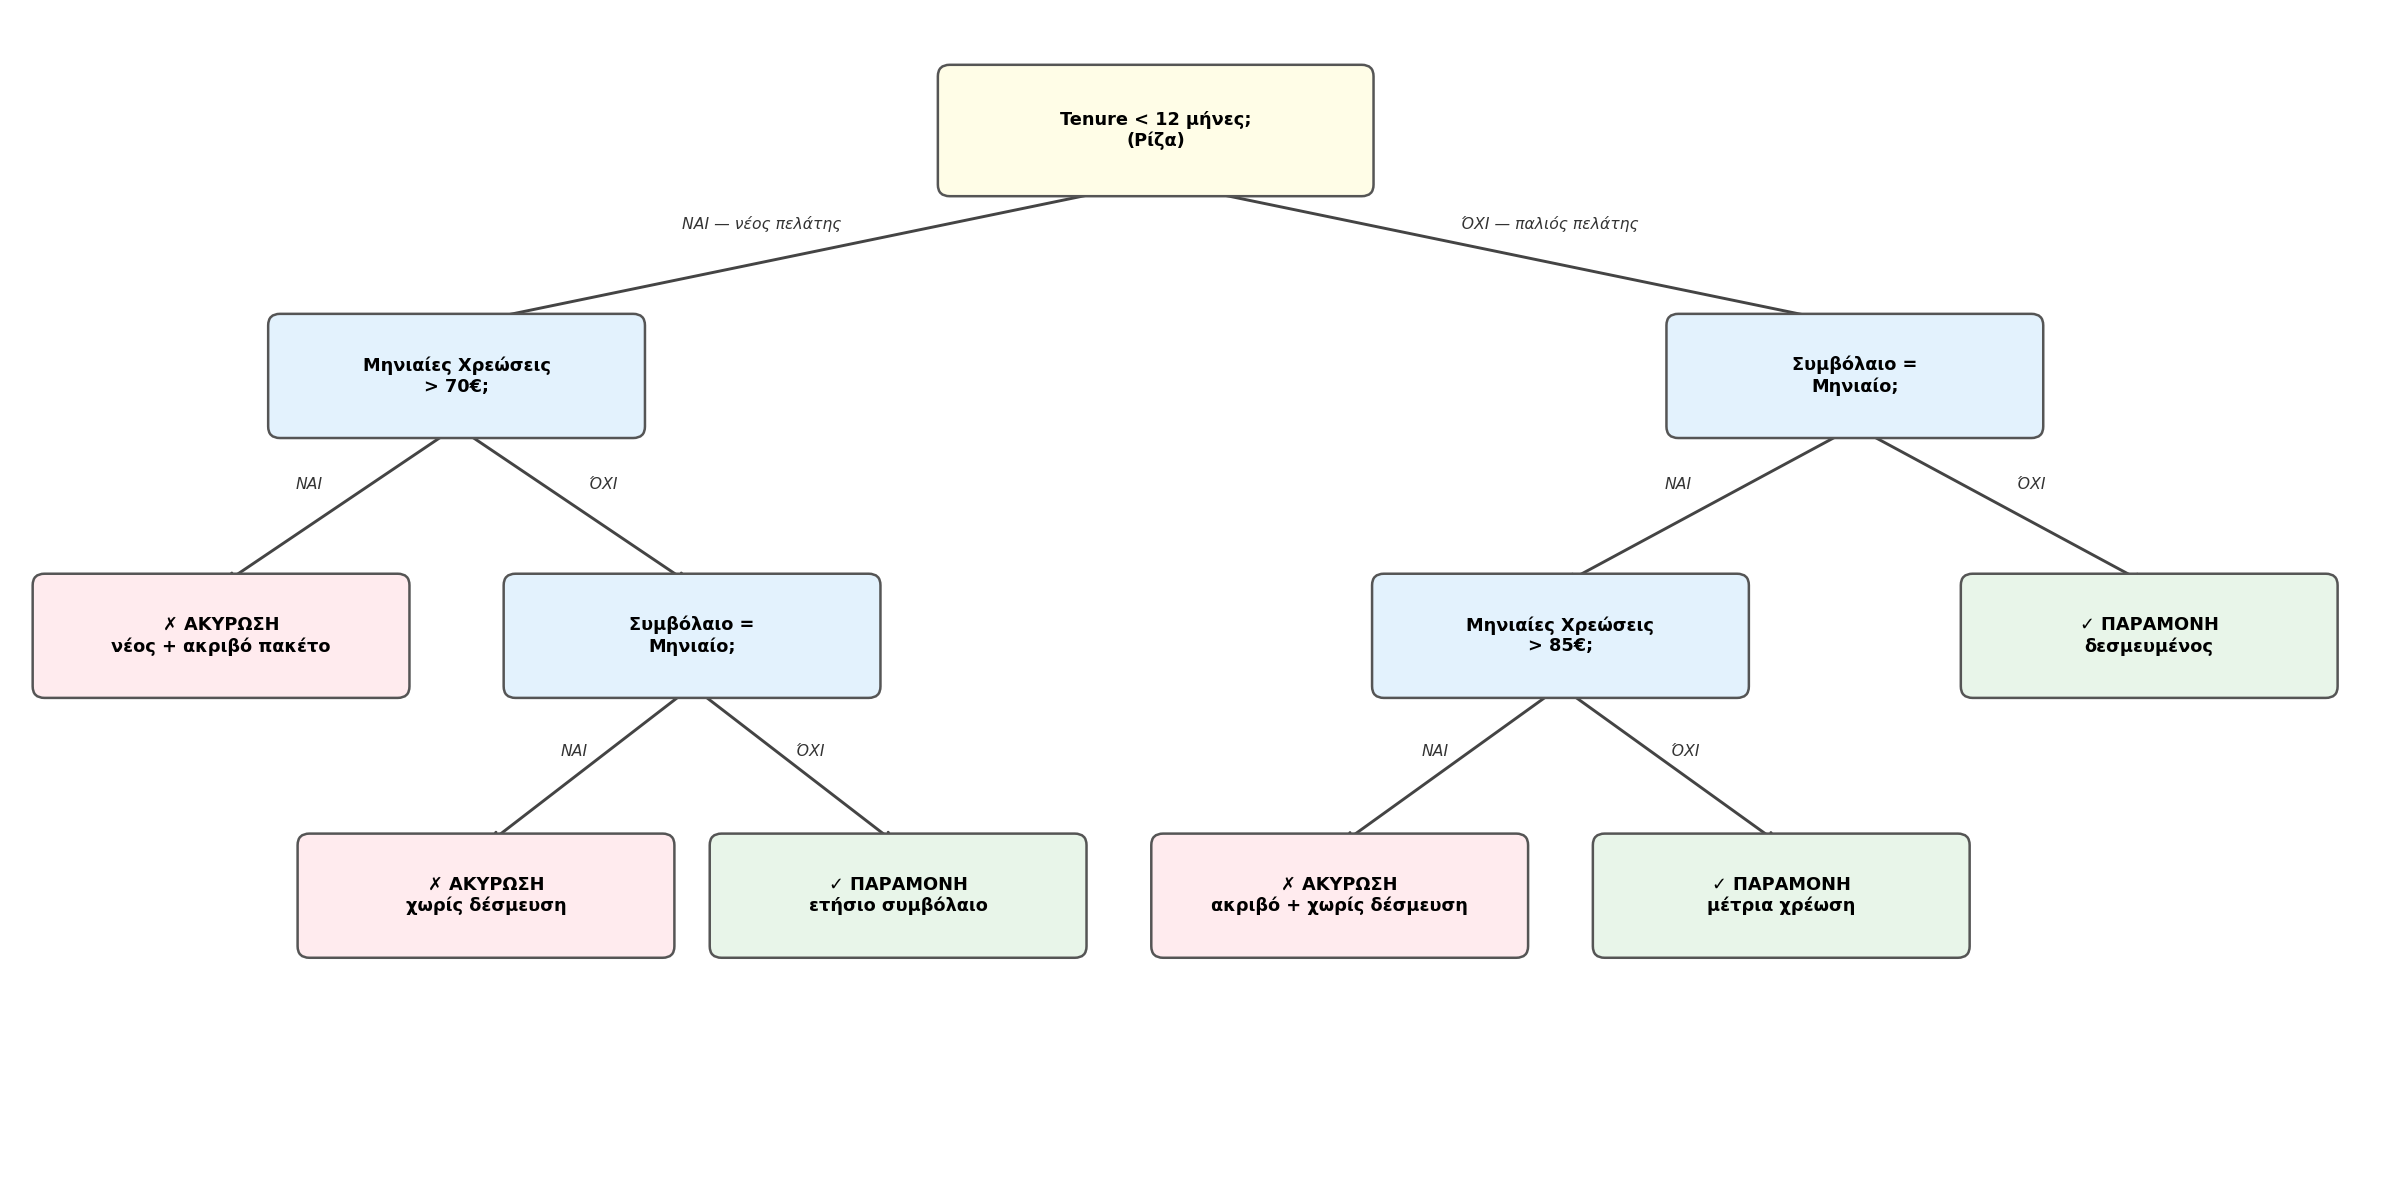
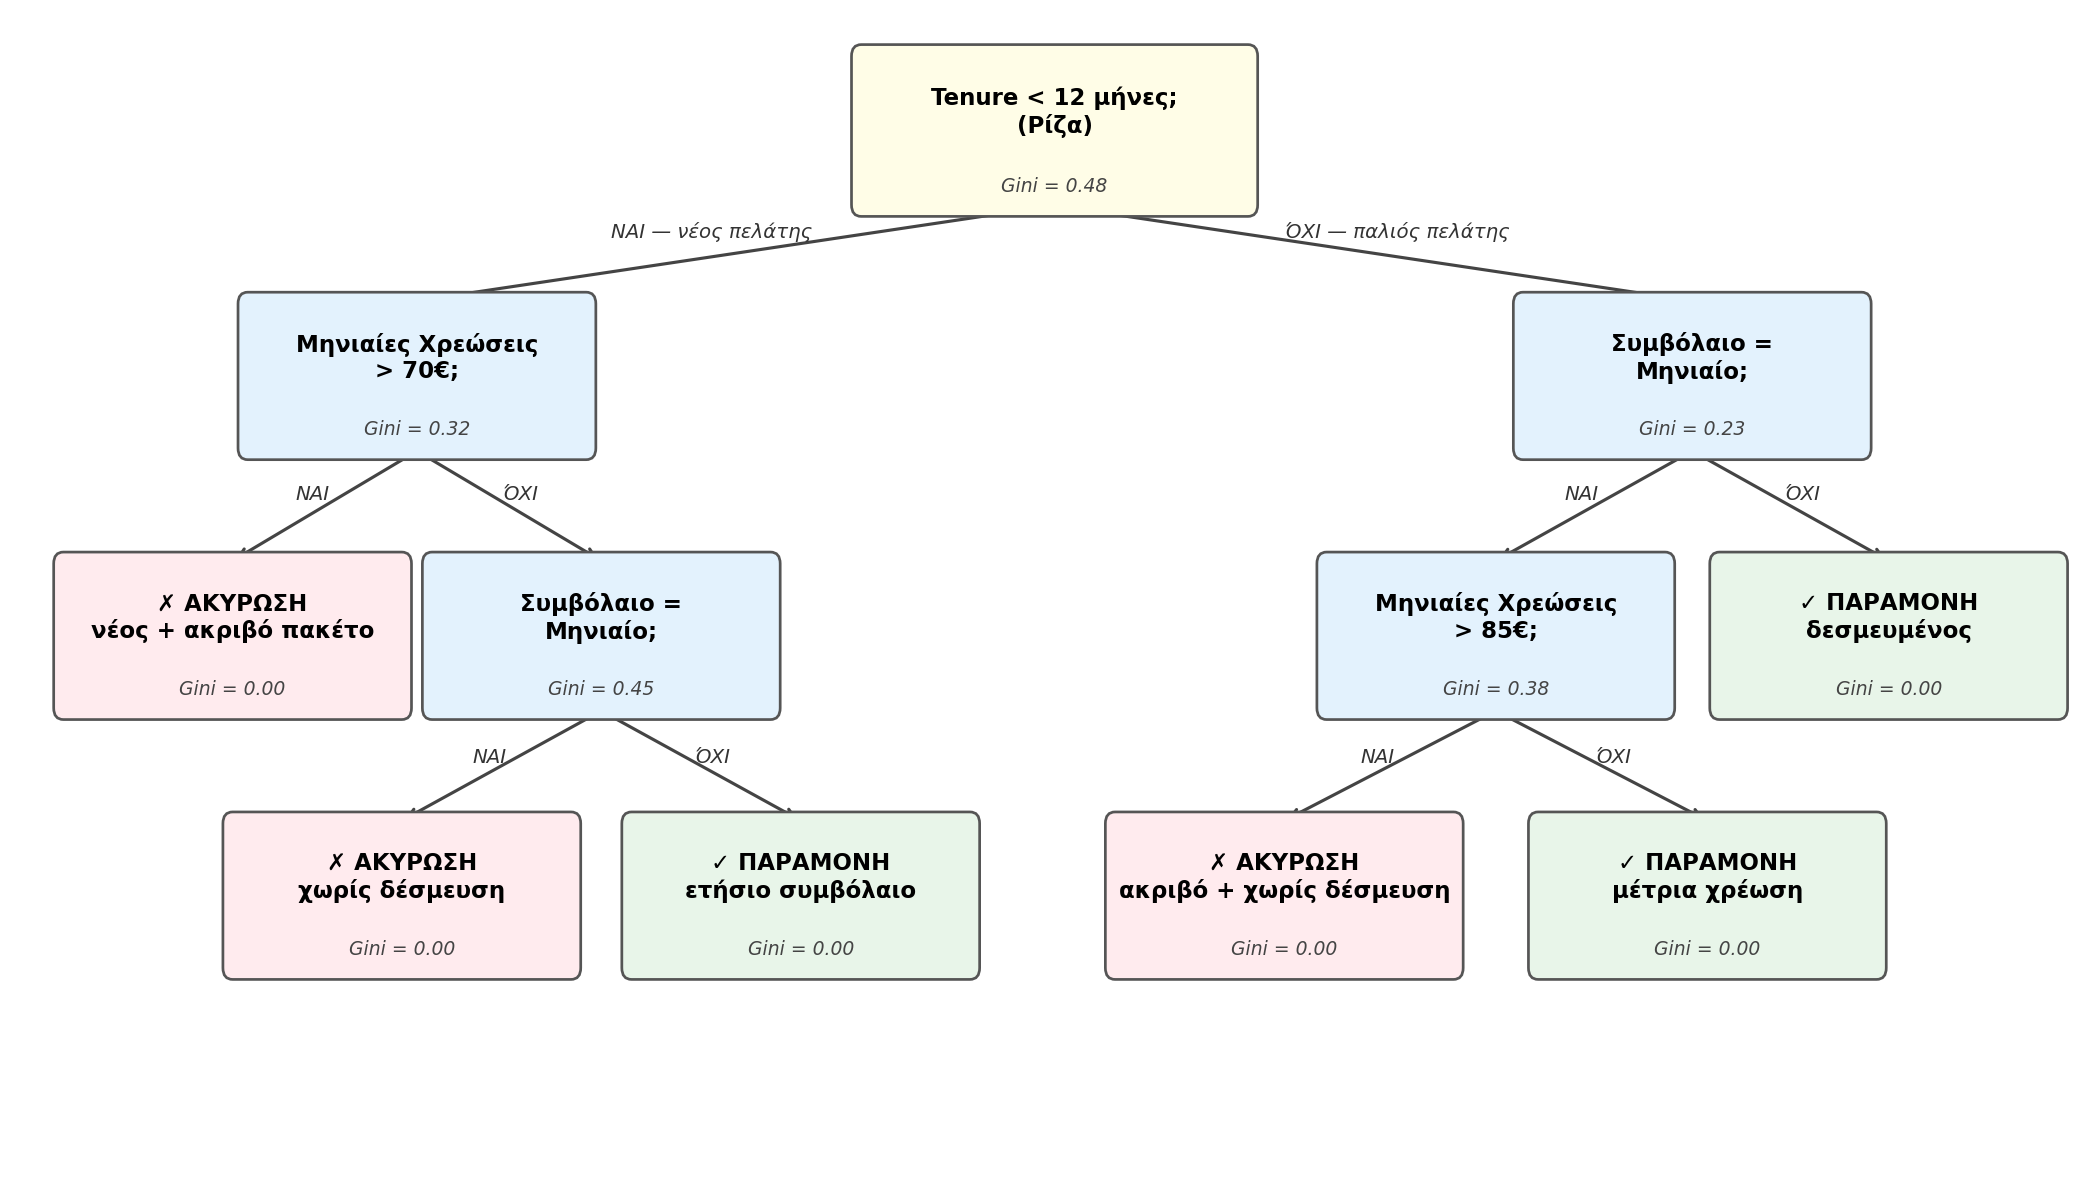
feat(lec6): display gini impurity in decision tree nodes
Update `gen_decision_tree.py` to include Gini impurity values within each node. Adjust node dimensions, positions, and text sizes for improved readability. Regenerate `decision_tree.png`.

diff --git a/img/lec6/gen_decision_tree.py b/img/lec6/gen_decision_tree.py
@@ -1,32 +1,39 @@
-"""Generates decision_tree.png with fully Greek labels."""
+"""Generates decision_tree.png with fully Greek labels and Gini values per node."""
 import matplotlib
 matplotlib.rcParams['font.family'] = 'DejaVu Sans'
 import matplotlib.pyplot as plt
 from matplotlib.patches import FancyBboxPatch
 
-fig, ax = plt.subplots(figsize=(16, 8))
-ax.set_xlim(0, 16)
+fig, ax = plt.subplots(figsize=(14, 8))
+ax.set_xlim(0, 17)   # wider space → left nodes don't clip
 ax.set_ylim(0, 8)
 ax.axis('off')
 fig.patch.set_facecolor('white')
 
 # ── helpers ──────────────────────────────────────────────────────────────────
-def node(ax, x, y, text, color, width=2.4, height=0.70, fontsize=8.5):
-    box = FancyBboxPatch((x - width/2, y - height/2), width, height,
+def node(ax, x, y, text, color, gini=None, width=2.8, height=0.75, fontsize=11):
+    extra = 0.25 if gini is not None else 0
+    eff_h = height + extra
+    box = FancyBboxPatch((x - width/2, y - eff_h/2), width, eff_h,
                          boxstyle="round,pad=0.08",
-                         facecolor=color, edgecolor='#555555', linewidth=1.2,
+                         facecolor=color, edgecolor='#555555', linewidth=1.3,
                          zorder=3)
     ax.add_patch(box)
-    ax.text(x, y, text, ha='center', va='center', fontsize=fontsize,
+    text_y = y + (extra / 2 if gini is not None else 0)
+    ax.text(x, text_y, text, ha='center', va='center', fontsize=fontsize,
             fontweight='bold', zorder=4, multialignment='center')
+    if gini is not None:
+        ax.text(x, y - eff_h/2 + 0.13, f'Gini = {gini:.2f}',
+                ha='center', va='center', fontsize=9,
+                color='#444444', style='italic', zorder=4)
 
-def arrow(ax, x1, y1, x2, y2, h=0.35):
+def arrow(ax, x1, y1, x2, y2, h=0.52):
     ax.annotate('', xy=(x2, y2 + h), xytext=(x1, y1 - h),
-                arrowprops=dict(arrowstyle='->', color='#444444', lw=1.4),
+                arrowprops=dict(arrowstyle='->', color='#444444', lw=1.5),
                 zorder=2)
 
 def edge_label(ax, x, y, text):
-    ax.text(x, y, text, ha='center', va='center', fontsize=7.5,
+    ax.text(x, y, text, ha='center', va='center', fontsize=9.5,
             color='#333333', style='italic', zorder=5)
 
 # ── colours ──────────────────────────────────────────────────────────────────
@@ -35,42 +42,42 @@ INNER  = '#E3F2FD'
 CANCEL = '#FFEBEE'
 STAY   = '#E8F5E9'
 
-# ── layout (designed bottom-up so parents centre over children) ───────────────
-#
-# Level 3 (y=1.9): 4 leaves, evenly spaced
-L3a_x, L3b_x = 3.2, 6.0   # children of L2b
-L3c_x, L3d_x = 9.0, 12.0  # children of L2c
+# ── layout — bottom-up, left margin ≥ 0.4 units ──────────────────────────────
+# Level 3 (y=1.9)
+L3a_x, L3b_x = 3.2, 6.5    # children of L2b
+L3c_x, L3d_x = 10.5, 14.0  # children of L2c
 
-# Level 2 (y=3.7): 2 leaves + 2 inner nodes
-L2a_x = 1.4                          # left leaf
-L2b_x = (L3a_x + L3b_x) / 2         # 4.6  — centre over its children
-L2c_x = (L3c_x + L3d_x) / 2         # 10.5 — centre over its children
-L2d_x = 14.5                         # right leaf
+# Level 2 (y=3.7)
+L2a_x = 1.8
+L2b_x = (L3a_x + L3b_x) / 2   # 4.85
+L2c_x = (L3c_x + L3d_x) / 2   # 12.25
+L2d_x = 15.5
 
 # Level 1 (y=5.5)
-L1a_x = (L2a_x + L2b_x) / 2         # 3.0
-L1b_x = (L2c_x + L2d_x) / 2         # 12.5
+L1a_x = (L2a_x + L2b_x) / 2   # 3.325
+L1b_x = (L2c_x + L2d_x) / 2   # 13.875
 
 # Root (y=7.2)
-ROOT_x = (L1a_x + L1b_x) / 2        # 7.75
+ROOT_x = (L1a_x + L1b_x) / 2  # 8.6
 
 Y = dict(root=7.2, l1=5.5, l2=3.7, l3=1.9)
 
 # ── nodes ────────────────────────────────────────────────────────────────────
-node(ax, ROOT_x, Y['root'], 'Tenure < 12 μήνες;\n(Ρίζα)', ROOT, width=2.8, height=0.75)
+node(ax, ROOT_x, Y['root'], 'Tenure < 12 μήνες;\n(Ρίζα)', ROOT,
+     gini=0.48, width=3.2, height=0.78)
 
-node(ax, L1a_x, Y['l1'], 'Μηνιαίες Χρεώσεις\n> 70€;', INNER)
-node(ax, L1b_x, Y['l1'], 'Συμβόλαιο =\nΜηνιαίο;', INNER)
+node(ax, L1a_x, Y['l1'], 'Μηνιαίες Χρεώσεις\n> 70€;', INNER, gini=0.32)
+node(ax, L1b_x, Y['l1'], 'Συμβόλαιο =\nΜηνιαίο;',     INNER, gini=0.23)
 
-node(ax, L2a_x, Y['l2'], '✗ ΑΚΥΡΩΣΗ\nνέος + ακριβό πακέτο', CANCEL)
-node(ax, L2b_x, Y['l2'], 'Συμβόλαιο =\nΜηνιαίο;', INNER)
-node(ax, L2c_x, Y['l2'], 'Μηνιαίες Χρεώσεις\n> 85€;', INNER)
-node(ax, L2d_x, Y['l2'], '✓ ΠΑΡΑΜΟΝΗ\nδεσμευμένος', STAY)
+node(ax, L2a_x, Y['l2'], '✗ ΑΚΥΡΩΣΗ\nνέος + ακριβό πακέτο', CANCEL, gini=0.00)
+node(ax, L2b_x, Y['l2'], 'Συμβόλαιο =\nΜηνιαίο;',           INNER,  gini=0.45)
+node(ax, L2c_x, Y['l2'], 'Μηνιαίες Χρεώσεις\n> 85€;',       INNER,  gini=0.38)
+node(ax, L2d_x, Y['l2'], '✓ ΠΑΡΑΜΟΝΗ\nδεσμευμένος',          STAY,   gini=0.00)
 
-node(ax, L3a_x, Y['l3'], '✗ ΑΚΥΡΩΣΗ\nχωρίς δέσμευση', CANCEL)
-node(ax, L3b_x, Y['l3'], '✓ ΠΑΡΑΜΟΝΗ\nετήσιο συμβόλαιο', STAY)
-node(ax, L3c_x, Y['l3'], '✗ ΑΚΥΡΩΣΗ\nακριβό + χωρίς δέσμευση', CANCEL)
-node(ax, L3d_x, Y['l3'], '✓ ΠΑΡΑΜΟΝΗ\nμέτρια χρέωση', STAY)
+node(ax, L3a_x, Y['l3'], '✗ ΑΚΥΡΩΣΗ\nχωρίς δέσμευση',          CANCEL, gini=0.00)
+node(ax, L3b_x, Y['l3'], '✓ ΠΑΡΑΜΟΝΗ\nετήσιο συμβόλαιο',       STAY,   gini=0.00)
+node(ax, L3c_x, Y['l3'], '✗ ΑΚΥΡΩΣΗ\nακριβό + χωρίς δέσμευση', CANCEL, gini=0.00)
+node(ax, L3d_x, Y['l3'], '✓ ΠΑΡΑΜΟΝΗ\nμέτρια χρέωση',           STAY,   gini=0.00)
 
 # ── arrows ───────────────────────────────────────────────────────────────────
 arrow(ax, ROOT_x, Y['root'], L1a_x, Y['l1'])
@@ -85,16 +92,16 @@ arrow(ax, L2c_x,  Y['l2'],  L3c_x, Y['l3'])
 arrow(ax, L2c_x,  Y['l2'],  L3d_x, Y['l3'])
 
 # ── edge labels ──────────────────────────────────────────────────────────────
-edge_label(ax, (ROOT_x + L1a_x)/2 - 0.3, 6.55, 'ΝΑΙ — νέος πελάτης')
-edge_label(ax, (ROOT_x + L1b_x)/2 + 0.3, 6.55, 'ΌΧΙ — παλιός πελάτης')
-edge_label(ax, (L1a_x + L2a_x)/2 - 0.2, 4.75, 'ΝΑΙ')
-edge_label(ax, (L1a_x + L2b_x)/2 + 0.2, 4.75, 'ΌΧΙ')
-edge_label(ax, (L1b_x + L2c_x)/2 - 0.2, 4.75, 'ΝΑΙ')
-edge_label(ax, (L1b_x + L2d_x)/2 + 0.2, 4.75, 'ΌΧΙ')
-edge_label(ax, (L2b_x + L3a_x)/2 - 0.1, 2.9, 'ΝΑΙ')
-edge_label(ax, (L2b_x + L3b_x)/2 + 0.1, 2.9, 'ΌΧΙ')
-edge_label(ax, (L2c_x + L3c_x)/2 - 0.1, 2.9, 'ΝΑΙ')
-edge_label(ax, (L2c_x + L3d_x)/2 + 0.1, 2.9, 'ΌΧΙ')
+edge_label(ax, (ROOT_x + L1a_x)/2 - 0.2, 6.50, 'ΝΑΙ — νέος πελάτης')
+edge_label(ax, (ROOT_x + L1b_x)/2 + 0.2, 6.50, 'ΌΧΙ — παλιός πελάτης')
+edge_label(ax, (L1a_x + L2a_x)/2 - 0.1, 4.68, 'ΝΑΙ')
+edge_label(ax, (L1a_x + L2b_x)/2 + 0.1, 4.68, 'ΌΧΙ')
+edge_label(ax, (L1b_x + L2c_x)/2 - 0.1, 4.68, 'ΝΑΙ')
+edge_label(ax, (L1b_x + L2d_x)/2 + 0.1, 4.68, 'ΌΧΙ')
+edge_label(ax, (L2b_x + L3a_x)/2 - 0.1, 2.86, 'ΝΑΙ')
+edge_label(ax, (L2b_x + L3b_x)/2 + 0.1, 2.86, 'ΌΧΙ')
+edge_label(ax, (L2c_x + L3c_x)/2 - 0.1, 2.86, 'ΝΑΙ')
+edge_label(ax, (L2c_x + L3d_x)/2 + 0.1, 2.86, 'ΌΧΙ')
 
 out = '/home/rg/Teaching/uniwa/dss-data-analytics/img/lec6/decision_tree.png'
 plt.tight_layout()

diff --git a/lectures/lecture6_el.md b/lectures/lecture6_el.md
@@ -252,6 +252,8 @@ style: |
 ![Decision Tree Churn](../img/lec6/decision_tree.png)
 
 
+
+
 ---
 
 <!-- _class: xsmall -->
